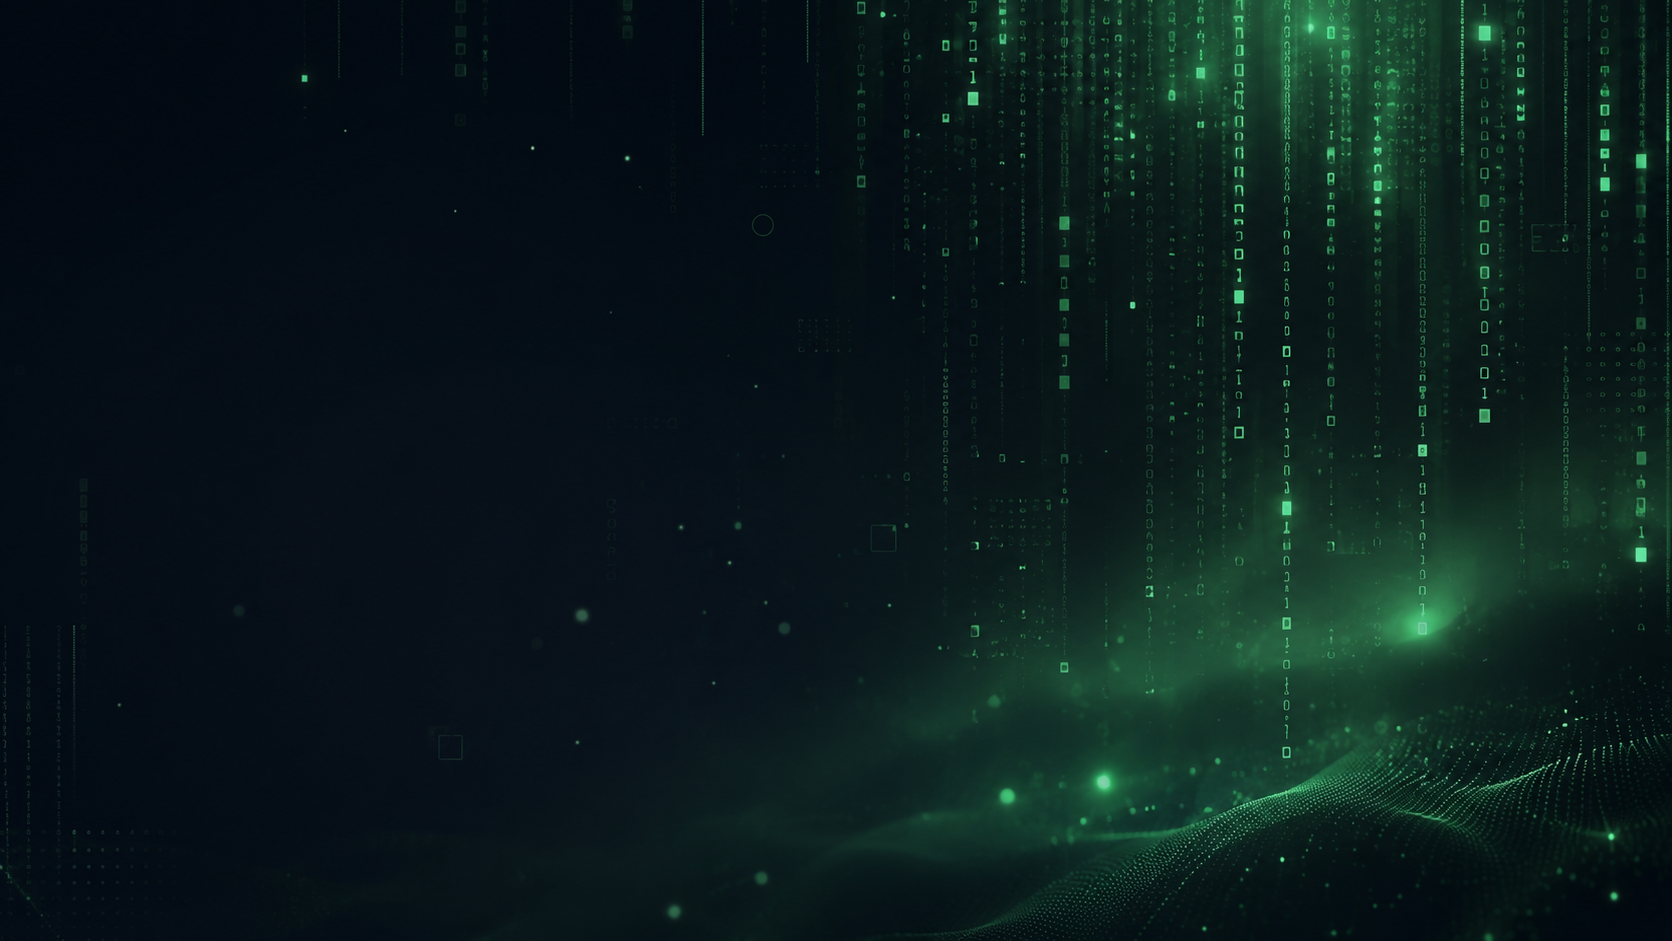
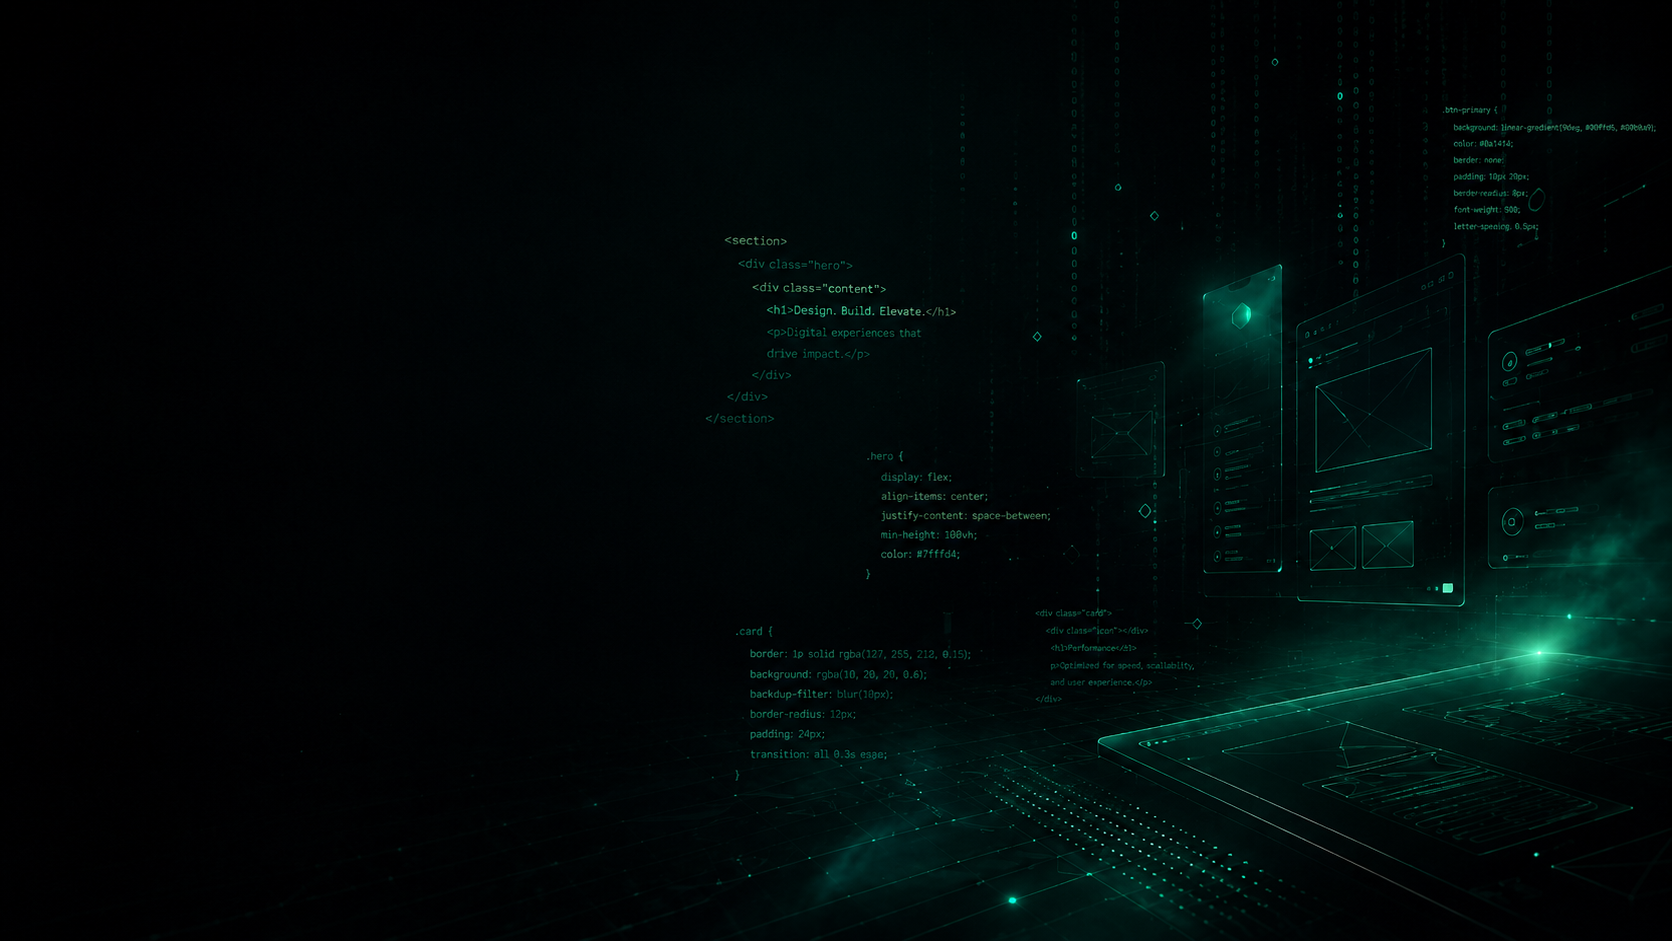
hero final image and text

diff --git a/fr.php b/fr.php
@@ -164,7 +164,7 @@ $conn->close();
    <section id="hero" class="hero">
       <div class="hero-container" data-aos="fade-in" data-aos-duration="3000">
          <h1>Açelya Lejeune</h1>
-         <p>Je suis <span class="typed" data-typed-items="Designer UX/UI senior, Développeuse Front-End"></span></p>
+         <p><span class="typed" data-typed-items="Designer UX/UI senior, Développeuse Front-End"></span></p>
       </div>
    </section>
    <!-----------------------------------------------------------------

diff --git a/index.php b/index.php
@@ -160,7 +160,7 @@ $conn->close();
    <section id="hero" class="hero">
       <div class="hero-container" data-aos="fade-in" data-aos-duration="3000">
          <h1>Açelya Lejeune</h1>
-         <p>I'm a <span class="typed" data-typed-items="Senior UX/UI Designer, Frontend Developer"></span></p>
+         <p><span class="typed" data-typed-items="Senior UX/UI Designer, Frontend Developer"></span></p>
       </div>
    </section>
    <!-----------------------------------------------------------------